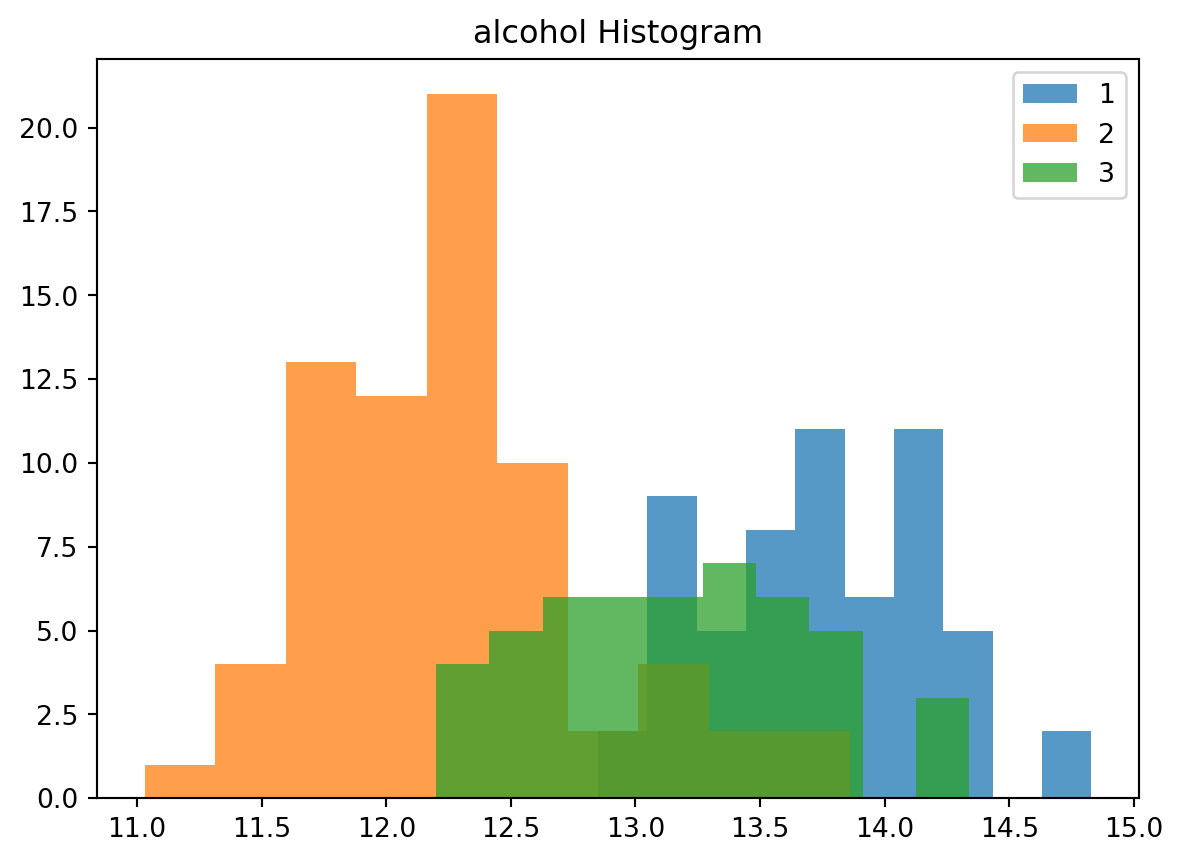
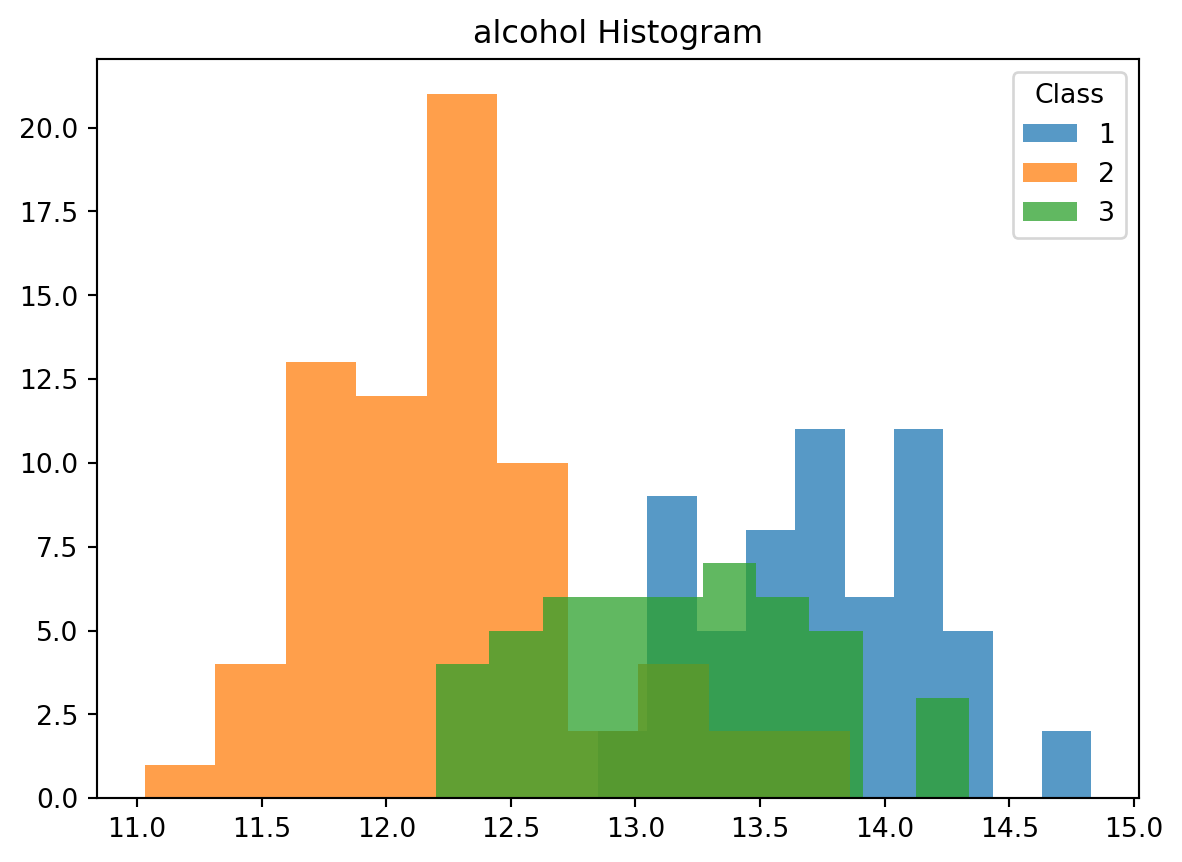
Add Box and Parrallel Coordinates plots

Changed region(s): [[0.8528, 0.0905, 0.9442, 0.3016]]

diff --git a/wine.html b/wine.html
@@ -101,7 +101,7 @@ pre > code.sourceCode > span > a:first-child::before { text-decoration: underlin
 
 <section id="imports" class="level2">
 <h2 class="anchored" data-anchor-id="imports">Imports</h2>
-<div id="6c42dbc1" class="cell" data-execution_count="1">
+<div id="63e1568d" class="cell" data-execution_count="1">
 <div class="sourceCode cell-code" id="cb1"><pre class="sourceCode python code-with-copy"><code class="sourceCode python"><span id="cb1-1"><a href="#cb1-1" aria-hidden="true" tabindex="-1"></a><span class="im">import</span> pandas <span class="im">as</span> pd</span>
 <span id="cb1-2"><a href="#cb1-2" aria-hidden="true" tabindex="-1"></a><span class="im">import</span> numpy <span class="im">as</span> np</span>
 <span id="cb1-3"><a href="#cb1-3" aria-hidden="true" tabindex="-1"></a><span class="im">import</span> matplotlib.pyplot <span class="im">as</span> plt</span>
@@ -111,16 +111,17 @@ pre > code.sourceCode > span > a:first-child::before { text-decoration: underlin
 <span id="cb1-7"><a href="#cb1-7" aria-hidden="true" tabindex="-1"></a><span class="im">from</span> sklearn.linear_model <span class="im">import</span> LogisticRegression</span>
 <span id="cb1-8"><a href="#cb1-8" aria-hidden="true" tabindex="-1"></a><span class="im">from</span> sklearn.decomposition <span class="im">import</span> PCA</span>
 <span id="cb1-9"><a href="#cb1-9" aria-hidden="true" tabindex="-1"></a><span class="im">from</span> sklearn.model_selection <span class="im">import</span> train_test_split</span>
-<span id="cb1-10"><a href="#cb1-10" aria-hidden="true" tabindex="-1"></a><span class="im">from</span> sklearn.metrics <span class="im">import</span> classification_report</span></code><button title="Copy to Clipboard" class="code-copy-button"><i class="bi"></i></button></pre></div>
+<span id="cb1-10"><a href="#cb1-10" aria-hidden="true" tabindex="-1"></a><span class="im">from</span> sklearn.metrics <span class="im">import</span> classification_report</span>
+<span id="cb1-11"><a href="#cb1-11" aria-hidden="true" tabindex="-1"></a><span class="im">import</span> plotly.express <span class="im">as</span> px</span></code><button title="Copy to Clipboard" class="code-copy-button"><i class="bi"></i></button></pre></div>
 </div>
 </section>
 <section id="load-dataset" class="level2">
 <h2 class="anchored" data-anchor-id="load-dataset">Load Dataset</h2>
-<div id="7ee52b88" class="cell" data-execution_count="2">
+<div id="ff5c8441" class="cell" data-execution_count="2">
 <div class="sourceCode cell-code" id="cb2"><pre class="sourceCode python code-with-copy"><code class="sourceCode python"><span id="cb2-1"><a href="#cb2-1" aria-hidden="true" tabindex="-1"></a>wine_df <span class="op">=</span> pd.read_csv(<span class="st">"./wine.data"</span>, header<span class="op">=</span><span class="va">None</span>)</span>
 <span id="cb2-2"><a href="#cb2-2" aria-hidden="true" tabindex="-1"></a>wine_df.columns <span class="op">=</span> [<span class="st">"class"</span>, <span class="st">"alcohol"</span>, <span class="st">"malic_acid"</span>, <span class="st">"ash"</span>, <span class="st">"alcalinity"</span>, <span class="st">"magnesium"</span>, <span class="st">"phenols"</span>, <span class="st">"flavanoids"</span>, <span class="st">"nonflavanoids"</span>, <span class="st">"proanthocyanins"</span>, <span class="st">"color"</span>, <span class="st">"hue"</span>, <span class="st">"od280/od315"</span>, <span class="st">"proline"</span>]</span>
 <span id="cb2-3"><a href="#cb2-3" aria-hidden="true" tabindex="-1"></a>wine_df.sample(<span class="dv">5</span>)</span></code><button title="Copy to Clipboard" class="code-copy-button"><i class="bi"></i></button></pre></div>
-<div class="cell-output cell-output-display" data-execution_count="86">
+<div class="cell-output cell-output-display" data-execution_count="151">
 <div>
 
 
@@ -146,57 +147,74 @@ pre > code.sourceCode > span > a:first-child::before { text-decoration: underlin
 </thead>
 <tbody>
 <tr class="odd">
-<td data-quarto-table-cell-role="th">120</td>
+<td data-quarto-table-cell-role="th">77</td>
 <td>2</td>
-<td>11.45</td>
-<td>2.40</td>
-<td>2.42</td>
-<td>20.0</td>
-<td>96</td>
-<td>2.90</td>
-<td>2.79</td>
-<td>0.32</td>
-<td>1.83</td>
-<td>3.25</td>
-<td>0.80</td>
-<td>3.39</td>
-<td>625</td>
+<td>11.84</td>
+<td>2.89</td>
+<td>2.23</td>
+<td>18.0</td>
+<td>112</td>
+<td>1.72</td>
+<td>1.32</td>
+<td>0.43</td>
+<td>0.95</td>
+<td>2.65</td>
+<td>0.96</td>
+<td>2.52</td>
+<td>500</td>
 </tr>
 <tr class="even">
-<td data-quarto-table-cell-role="th">123</td>
-<td>2</td>
+<td data-quarto-table-cell-role="th">37</td>
+<td>1</td>
 <td>13.05</td>
-<td>5.80</td>
-<td>2.13</td>
-<td>21.5</td>
-<td>86</td>
-<td>2.62</td>
-<td>2.65</td>
-<td>0.30</td>
-<td>2.01</td>
-<td>2.60</td>
-<td>0.73</td>
-<td>3.10</td>
-<td>380</td>
+<td>1.65</td>
+<td>2.55</td>
+<td>18.0</td>
+<td>98</td>
+<td>2.45</td>
+<td>2.43</td>
+<td>0.29</td>
+<td>1.44</td>
+<td>4.25</td>
+<td>1.12</td>
+<td>2.51</td>
+<td>1105</td>
 </tr>
 <tr class="odd">
-<td data-quarto-table-cell-role="th">38</td>
-<td>1</td>
-<td>13.07</td>
-<td>1.50</td>
-<td>2.10</td>
-<td>15.5</td>
-<td>98</td>
-<td>2.40</td>
-<td>2.64</td>
-<td>0.28</td>
-<td>1.37</td>
-<td>3.70</td>
-<td>1.18</td>
-<td>2.69</td>
-<td>1020</td>
+<td data-quarto-table-cell-role="th">110</td>
+<td>2</td>
+<td>11.46</td>
+<td>3.74</td>
+<td>1.82</td>
+<td>19.5</td>
+<td>107</td>
+<td>3.18</td>
+<td>2.58</td>
+<td>0.24</td>
+<td>3.58</td>
+<td>2.90</td>
+<td>0.75</td>
+<td>2.81</td>
+<td>562</td>
 </tr>
 <tr class="even">
+<td data-quarto-table-cell-role="th">133</td>
+<td>3</td>
+<td>12.70</td>
+<td>3.55</td>
+<td>2.36</td>
+<td>21.5</td>
+<td>106</td>
+<td>1.70</td>
+<td>1.20</td>
+<td>0.17</td>
+<td>0.84</td>
+<td>5.00</td>
+<td>0.78</td>
+<td>1.29</td>
+<td>600</td>
+</tr>
+<tr class="odd">
 <td data-quarto-table-cell-role="th">104</td>
 <td>2</td>
 <td>12.51</td>
@@ -213,23 +231,6 @@ pre > code.sourceCode > span > a:first-child::before { text-decoration: underlin
 <td>3.57</td>
 <td>672</td>
 </tr>
-<tr class="odd">
-<td data-quarto-table-cell-role="th">68</td>
-<td>2</td>
-<td>13.34</td>
-<td>0.94</td>
-<td>2.36</td>
-<td>17.0</td>
-<td>110</td>
-<td>2.53</td>
-<td>1.30</td>
-<td>0.55</td>
-<td>0.42</td>
-<td>3.17</td>
-<td>1.02</td>
-<td>1.93</td>
-<td>750</td>
-</tr>
 </tbody>
 </table>
 
@@ -239,9 +240,9 @@ pre > code.sourceCode > span > a:first-child::before { text-decoration: underlin
 </section>
 <section id="exploratory-data-analysis" class="level2">
 <h2 class="anchored" data-anchor-id="exploratory-data-analysis">Exploratory Data Analysis</h2>
-<div id="925598e3" class="cell" data-execution_count="3">
+<div id="06b6c299" class="cell" data-execution_count="3">
 <div class="sourceCode cell-code" id="cb3"><pre class="sourceCode python code-with-copy"><code class="sourceCode python"><span id="cb3-1"><a href="#cb3-1" aria-hidden="true" tabindex="-1"></a>wine_df.describe()</span></code><button title="Copy to Clipboard" class="code-copy-button"><i class="bi"></i></button></pre></div>
-<div class="cell-output cell-output-display" data-execution_count="87">
+<div class="cell-output cell-output-display" data-execution_count="152">
 <div>
 
 
@@ -411,7 +412,7 @@ pre > code.sourceCode > span > a:first-child::before { text-decoration: underlin
 </section>
 <section id="scatter-plots" class="level2">
 <h2 class="anchored" data-anchor-id="scatter-plots">Scatter Plots</h2>
-<div id="aca78581" class="cell" data-execution_count="4">
+<div id="389080e9" class="cell" data-execution_count="4">
 <div class="sourceCode cell-code" id="cb4"><pre class="sourceCode python code-with-copy"><code class="sourceCode python"><span id="cb4-1"><a href="#cb4-1" aria-hidden="true" tabindex="-1"></a>class_dfs <span class="op">=</span> []</span>
 <span id="cb4-2"><a href="#cb4-2" aria-hidden="true" tabindex="-1"></a><span class="cf">for</span> c <span class="kw">in</span> wine_df[<span class="st">"class"</span>].unique():</span>
 <span id="cb4-3"><a href="#cb4-3" aria-hidden="true" tabindex="-1"></a>  class_dfs.append(wine_df[wine_df[<span class="st">"class"</span>] <span class="op">==</span> c])</span>
@@ -420,7 +421,7 @@ pre > code.sourceCode > span > a:first-child::before { text-decoration: underlin
 <span id="cb4-6"><a href="#cb4-6" aria-hidden="true" tabindex="-1"></a>  ax <span class="op">=</span> fig.add_subplot(<span class="dv">111</span>)</span>
 <span id="cb4-7"><a href="#cb4-7" aria-hidden="true" tabindex="-1"></a>  <span class="cf">for</span> class_df <span class="kw">in</span> class_dfs:</span>
 <span id="cb4-8"><a href="#cb4-8" aria-hidden="true" tabindex="-1"></a>    ax.hist(class_df[col], bins<span class="op">=</span><span class="dv">10</span>, alpha<span class="op">=</span><span class="fl">0.75</span>, label<span class="op">=</span>class_df[<span class="st">"class"</span>].unique()[<span class="dv">0</span>])</span>
-<span id="cb4-9"><a href="#cb4-9" aria-hidden="true" tabindex="-1"></a>  plt.legend()</span>
+<span id="cb4-9"><a href="#cb4-9" aria-hidden="true" tabindex="-1"></a>  plt.legend(title<span class="op">=</span><span class="st">"Class"</span>)</span>
 <span id="cb4-10"><a href="#cb4-10" aria-hidden="true" tabindex="-1"></a>  plt.title(<span class="ss">f"</span><span class="sc">{</span>col<span class="sc">}</span><span class="ss"> Histogram"</span>)</span>
 <span id="cb4-11"><a href="#cb4-11" aria-hidden="true" tabindex="-1"></a>  plt.show()</span></code><button title="Copy to Clipboard" class="code-copy-button"><i class="bi"></i></button></pre></div>
 <div class="cell-output cell-output-display">
@@ -516,27 +517,173 @@ pre > code.sourceCode > span > a:first-child::before { text-decoration: underlin
 </div>
 </div>
 </section>
+<section id="box-plots" class="level2">
+<h2 class="anchored" data-anchor-id="box-plots">Box Plots</h2>
+<div id="7a469626" class="cell" data-execution_count="5">
+<div class="sourceCode cell-code" id="cb5"><pre class="sourceCode python code-with-copy"><code class="sourceCode python"><span id="cb5-1"><a href="#cb5-1" aria-hidden="true" tabindex="-1"></a><span class="cf">for</span> col <span class="kw">in</span> wine_df.drop(<span class="st">"class"</span>, axis<span class="op">=</span><span class="dv">1</span>).columns:</span>
+<span id="cb5-2"><a href="#cb5-2" aria-hidden="true" tabindex="-1"></a>  fig <span class="op">=</span> plt.figure()</span>
+<span id="cb5-3"><a href="#cb5-3" aria-hidden="true" tabindex="-1"></a>  ax <span class="op">=</span> fig.add_subplot(<span class="dv">111</span>)</span>
+<span id="cb5-4"><a href="#cb5-4" aria-hidden="true" tabindex="-1"></a>  <span class="cf">for</span> class_df <span class="kw">in</span> class_dfs:</span>
+<span id="cb5-5"><a href="#cb5-5" aria-hidden="true" tabindex="-1"></a>    ax.boxplot(class_df[col], positions<span class="op">=</span>[class_df[<span class="st">"class"</span>].unique()[<span class="dv">0</span>]])</span>
+<span id="cb5-6"><a href="#cb5-6" aria-hidden="true" tabindex="-1"></a>  plt.title(<span class="ss">f"</span><span class="sc">{</span>col<span class="sc">}</span><span class="ss"> Boxplot"</span>)</span>
+<span id="cb5-7"><a href="#cb5-7" aria-hidden="true" tabindex="-1"></a>  plt.show()</span></code><button title="Copy to Clipboard" class="code-copy-button"><i class="bi"></i></button></pre></div>
+<div class="cell-output cell-output-display">
+<div>
+<figure class="figure">
+<p><img src="wine_files/figure-html/cell-6-output-1.png" width="579" height="431" class="figure-img"></p>
+</figure>
+</div>
+</div>
+<div class="cell-output cell-output-display">
+<div>
+<figure class="figure">
+<p><img src="wine_files/figure-html/cell-6-output-2.png" width="558" height="431" class="figure-img"></p>
+</figure>
+</div>
+</div>
+<div class="cell-output cell-output-display">
+<div>
+<figure class="figure">
+<p><img src="wine_files/figure-html/cell-6-output-3.png" width="579" height="431" class="figure-img"></p>
+</figure>
+</div>
+</div>
+<div class="cell-output cell-output-display">
+<div>
+<figure class="figure">
+<p><img src="wine_files/figure-html/cell-6-output-4.png" width="579" height="431" class="figure-img"></p>
+</figure>
+</div>
+</div>
+<div class="cell-output cell-output-display">
+<div>
+<figure class="figure">
+<p><img src="wine_files/figure-html/cell-6-output-5.png" width="575" height="431" class="figure-img"></p>
+</figure>
+</div>
+</div>
+<div class="cell-output cell-output-display">
+<div>
+<figure class="figure">
+<p><img src="wine_files/figure-html/cell-6-output-6.png" width="571" height="431" class="figure-img"></p>
+</figure>
+</div>
+</div>
+<div class="cell-output cell-output-display">
+<div>
+<figure class="figure">
+<p><img src="wine_files/figure-html/cell-6-output-7.png" width="558" height="431" class="figure-img"></p>
+</figure>
+</div>
+</div>
+<div class="cell-output cell-output-display">
+<div>
+<figure class="figure">
+<p><img src="wine_files/figure-html/cell-6-output-8.png" width="571" height="431" class="figure-img"></p>
+</figure>
+</div>
+</div>
+<div class="cell-output cell-output-display">
+<div>
+<figure class="figure">
+<p><img src="wine_files/figure-html/cell-6-output-9.png" width="571" height="431" class="figure-img"></p>
+</figure>
+</div>
+</div>
+<div class="cell-output cell-output-display">
+<div>
+<figure class="figure">
+<p><img src="wine_files/figure-html/cell-6-output-10.png" width="566" height="431" class="figure-img"></p>
+</figure>
+</div>
+</div>
+<div class="cell-output cell-output-display">
+<div>
+<figure class="figure">
+<p><img src="wine_files/figure-html/cell-6-output-11.png" width="571" height="431" class="figure-img"></p>
+</figure>
+</div>
+</div>
+<div class="cell-output cell-output-display">
+<div>
+<figure class="figure">
+<p><img src="wine_files/figure-html/cell-6-output-12.png" width="571" height="431" class="figure-img"></p>
+</figure>
+</div>
+</div>
+<div class="cell-output cell-output-display">
+<div>
+<figure class="figure">
+<p><img src="wine_files/figure-html/cell-6-output-13.png" width="583" height="431" class="figure-img"></p>
+</figure>
+</div>
+</div>
+</div>
+</section>
+<section id="parrallel-coordinates-plot" class="level2">
+<h2 class="anchored" data-anchor-id="parrallel-coordinates-plot">Parrallel Coordinates Plot</h2>
+<div id="fbe806a4" class="cell" data-execution_count="6">
+<div class="sourceCode cell-code" id="cb6"><pre class="sourceCode python code-with-copy"><code class="sourceCode python"><span id="cb6-1"><a href="#cb6-1" aria-hidden="true" tabindex="-1"></a>fig <span class="op">=</span> px.parallel_coordinates(wine_df, color<span class="op">=</span><span class="st">"class"</span>, dimensions<span class="op">=</span>wine_df.drop(<span class="st">"class"</span>, axis<span class="op">=</span><span class="dv">1</span>).columns)</span>
+<span id="cb6-2"><a href="#cb6-2" aria-hidden="true" tabindex="-1"></a>fig.show()</span></code><button title="Copy to Clipboard" class="code-copy-button"><i class="bi"></i></button></pre></div>
+<div class="cell-output cell-output-display">
+        <script type="text/javascript">
+        window.PlotlyConfig = {MathJaxConfig: 'local'};
+        if (window.MathJax && window.MathJax.Hub && window.MathJax.Hub.Config) {window.MathJax.Hub.Config({SVG: {font: "STIX-Web"}});}
+        </script>
+        <script type="module">import "https://cdn.plot.ly/plotly-3.0.0.min"</script>
+        
+</div>
+<div class="cell-output cell-output-display">
+<div>            <script src="https://cdnjs.cloudflare.com/ajax/libs/mathjax/2.7.5/MathJax.js?config=TeX-AMS-MML_SVG"></script><script type="text/javascript">if (window.MathJax && window.MathJax.Hub && window.MathJax.Hub.Config) {window.MathJax.Hub.Config({SVG: {font: "STIX-Web"}});}</script>                <script type="text/javascript">window.PlotlyConfig = {MathJaxConfig: 'local'};</script>
[1 lines of base64/hex data omitted]
+                            
+var gd = document.getElementById('8bd2c84c-7e5d-4b3d-9c95-ef6b702d477f');
+var x = new MutationObserver(function (mutations, observer) {{
+        var display = window.getComputedStyle(gd).display;
+        if (!display || display === 'none') {{
+            console.log([gd, 'removed!']);
+            Plotly.purge(gd);
+            observer.disconnect();
+        }}
+}});
+
+// Listen for the removal of the full notebook cells
+var notebookContainer = gd.closest('#notebook-container');
+if (notebookContainer) {{
+    x.observe(notebookContainer, {childList: true});
+}}
+
+// Listen for the clearing of the current output cell
+var outputEl = gd.closest('.output');
+if (outputEl) {{
+    x.observe(outputEl, {childList: true});
+}}
+
+                        })                };            </script>        </div>
+</div>
+</div>
+</section>
 <section id="data-preprocessing" class="level2">
 <h2 class="anchored" data-anchor-id="data-preprocessing">Data Preprocessing</h2>
-<div id="6cb0e75a" class="cell" data-execution_count="5">
-<div class="sourceCode cell-code" id="cb5"><pre class="sourceCode python code-with-copy"><code class="sourceCode python"><span id="cb5-1"><a href="#cb5-1" aria-hidden="true" tabindex="-1"></a>X_train, X_test <span class="op">=</span> train_test_split(wine_df, test_size<span class="op">=</span><span class="fl">0.2</span>, random_state<span class="op">=</span><span class="dv">42</span>)</span>
-<span id="cb5-2"><a href="#cb5-2" aria-hidden="true" tabindex="-1"></a>y_train <span class="op">=</span> X_train.pop(<span class="st">"class"</span>)</span>
-<span id="cb5-3"><a href="#cb5-3" aria-hidden="true" tabindex="-1"></a>y_test <span class="op">=</span> X_test.pop(<span class="st">"class"</span>)</span>
-<span id="cb5-4"><a href="#cb5-4" aria-hidden="true" tabindex="-1"></a></span>
-<span id="cb5-5"><a href="#cb5-5" aria-hidden="true" tabindex="-1"></a>X_train <span class="op">=</span> (X_train <span class="op">-</span> X_train.mean()) <span class="op">/</span> X_train.std()</span>
-<span id="cb5-6"><a href="#cb5-6" aria-hidden="true" tabindex="-1"></a>X_test <span class="op">=</span> (X_test <span class="op">-</span> X_test.mean()) <span class="op">/</span> X_test.std()</span></code><button title="Copy to Clipboard" class="code-copy-button"><i class="bi"></i></button></pre></div>
+<div id="c2f03744" class="cell" data-execution_count="7">
+<div class="sourceCode cell-code" id="cb7"><pre class="sourceCode python code-with-copy"><code class="sourceCode python"><span id="cb7-1"><a href="#cb7-1" aria-hidden="true" tabindex="-1"></a>X_train, X_test <span class="op">=</span> train_test_split(wine_df, test_size<span class="op">=</span><span class="fl">0.2</span>, random_state<span class="op">=</span><span class="dv">42</span>)</span>
+<span id="cb7-2"><a href="#cb7-2" aria-hidden="true" tabindex="-1"></a>y_train <span class="op">=</span> X_train.pop(<span class="st">"class"</span>)</span>
+<span id="cb7-3"><a href="#cb7-3" aria-hidden="true" tabindex="-1"></a>y_test <span class="op">=</span> X_test.pop(<span class="st">"class"</span>)</span>
+<span id="cb7-4"><a href="#cb7-4" aria-hidden="true" tabindex="-1"></a></span>
+<span id="cb7-5"><a href="#cb7-5" aria-hidden="true" tabindex="-1"></a>X_train <span class="op">=</span> (X_train <span class="op">-</span> X_train.mean()) <span class="op">/</span> X_train.std()</span>
+<span id="cb7-6"><a href="#cb7-6" aria-hidden="true" tabindex="-1"></a>X_test <span class="op">=</span> (X_test <span class="op">-</span> X_test.mean()) <span class="op">/</span> X_test.std()</span></code><button title="Copy to Clipboard" class="code-copy-button"><i class="bi"></i></button></pre></div>
 </div>
 </section>
 <section id="multinomial-logistic-regression" class="level2">
 <h2 class="anchored" data-anchor-id="multinomial-logistic-regression">Multinomial Logistic Regression</h2>
-<div id="eb7a3882" class="cell" data-execution_count="6">
-<div class="sourceCode cell-code" id="cb6"><pre class="sourceCode python code-with-copy"><code class="sourceCode python"><span id="cb6-1"><a href="#cb6-1" aria-hidden="true" tabindex="-1"></a>model_softmax <span class="op">=</span> LogisticRegression(solver<span class="op">=</span><span class="st">'lbfgs'</span>)</span>
-<span id="cb6-2"><a href="#cb6-2" aria-hidden="true" tabindex="-1"></a>model_softmax.fit(X_train, y_train)</span>
-<span id="cb6-3"><a href="#cb6-3" aria-hidden="true" tabindex="-1"></a>training_accuracy <span class="op">=</span> model_softmax.score(X_train, y_train)</span>
-<span id="cb6-4"><a href="#cb6-4" aria-hidden="true" tabindex="-1"></a></span>
-<span id="cb6-5"><a href="#cb6-5" aria-hidden="true" tabindex="-1"></a>y_pred <span class="op">=</span> model_softmax.predict(X_test)</span>
-<span id="cb6-6"><a href="#cb6-6" aria-hidden="true" tabindex="-1"></a>report <span class="op">=</span> classification_report(y_test, y_pred)</span>
-<span id="cb6-7"><a href="#cb6-7" aria-hidden="true" tabindex="-1"></a><span class="bu">print</span>(report)</span></code><button title="Copy to Clipboard" class="code-copy-button"><i class="bi"></i></button></pre></div>
+<div id="7aa5996d" class="cell" data-execution_count="8">
+<div class="sourceCode cell-code" id="cb8"><pre class="sourceCode python code-with-copy"><code class="sourceCode python"><span id="cb8-1"><a href="#cb8-1" aria-hidden="true" tabindex="-1"></a>model_softmax <span class="op">=</span> LogisticRegression(solver<span class="op">=</span><span class="st">'lbfgs'</span>)</span>
+<span id="cb8-2"><a href="#cb8-2" aria-hidden="true" tabindex="-1"></a>model_softmax.fit(X_train, y_train)</span>
+<span id="cb8-3"><a href="#cb8-3" aria-hidden="true" tabindex="-1"></a>training_accuracy <span class="op">=</span> model_softmax.score(X_train, y_train)</span>
+<span id="cb8-4"><a href="#cb8-4" aria-hidden="true" tabindex="-1"></a></span>
+<span id="cb8-5"><a href="#cb8-5" aria-hidden="true" tabindex="-1"></a>y_pred <span class="op">=</span> model_softmax.predict(X_test)</span>
+<span id="cb8-6"><a href="#cb8-6" aria-hidden="true" tabindex="-1"></a>report <span class="op">=</span> classification_report(y_test, y_pred)</span>
+<span id="cb8-7"><a href="#cb8-7" aria-hidden="true" tabindex="-1"></a><span class="bu">print</span>(report)</span></code><button title="Copy to Clipboard" class="code-copy-button"><i class="bi"></i></button></pre></div>
 <div class="cell-output cell-output-stdout">
 <pre><code>              precision    recall  f1-score   support
 
